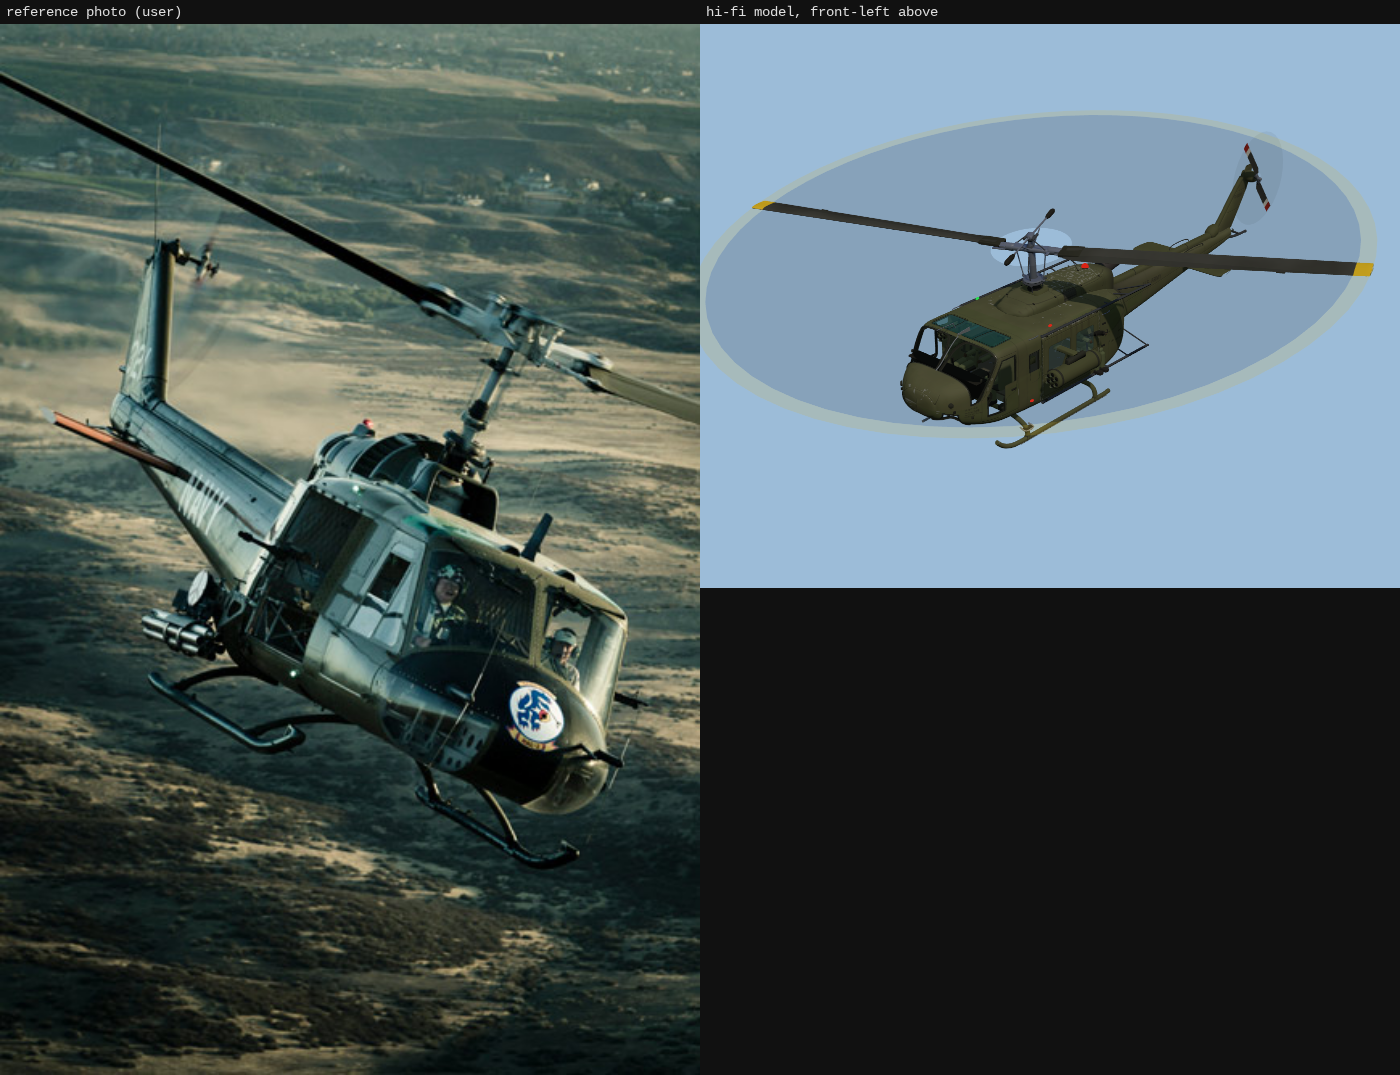
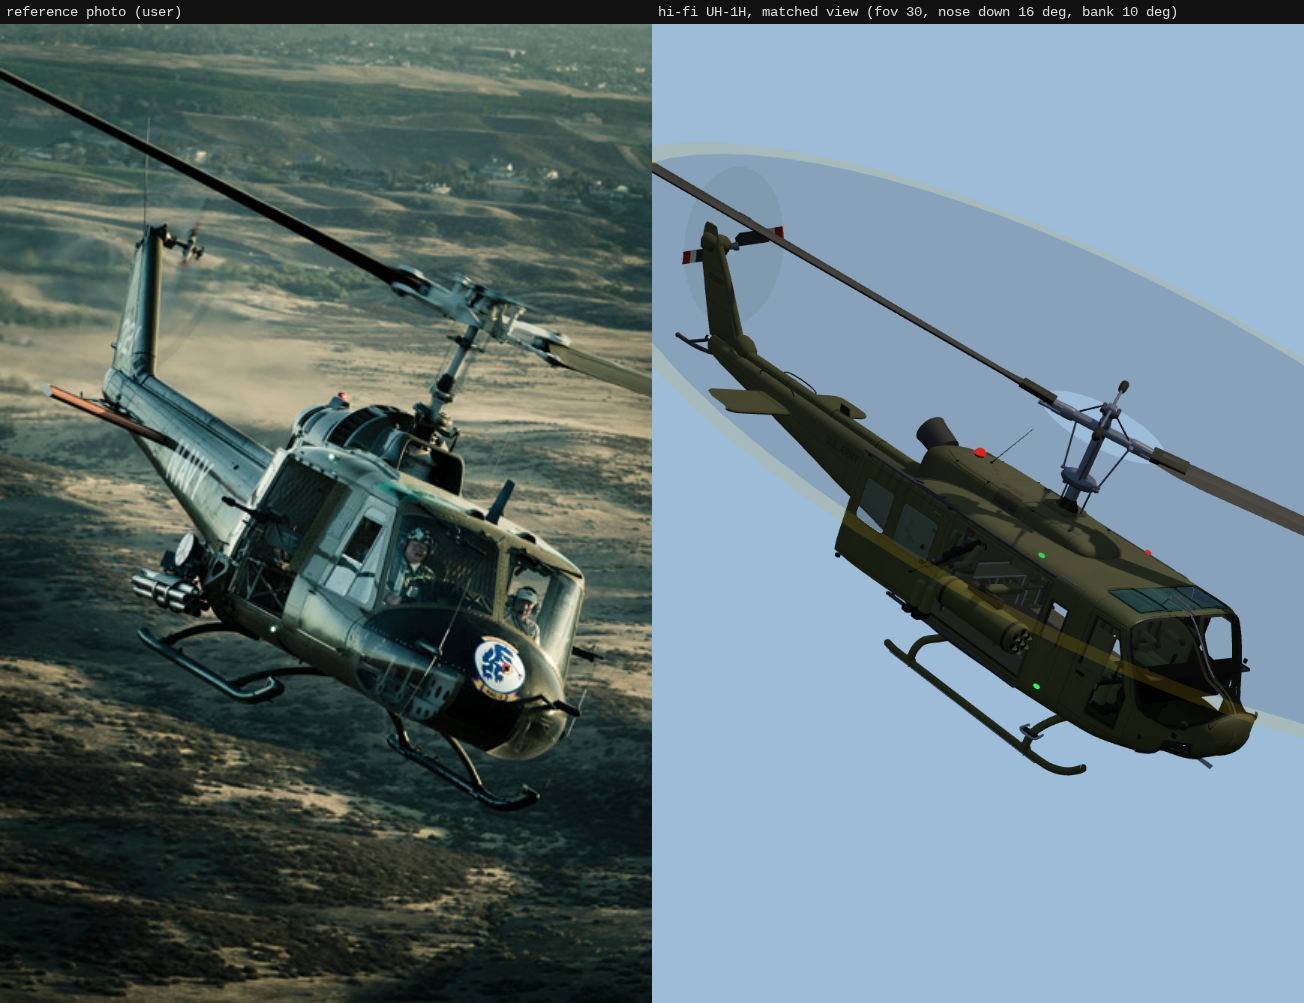
look-huey: photo-matched view (front-right above, fov 30, nose down, banked) for proportions.png; windscreen lower edge per the TM front view; blunter nose sections; hub at the 13 ft 7.4 in label height; top-view overlay orientation

diff --git a/game/js/hueyhifi.js b/game/js/hueyhifi.js
@@ -30,7 +30,7 @@ export const HUEY_LOD = Object.freeze({ nm: [55, 75], mf: [200, 260] });
 // aft of the nose; front view by the 8 ft 6.6 in skid track; top view by the hub-to-tail distance. Check with
 // dev/huey.html?ref=side|front|top. Model z = station aft of the CG, nose tip at z -3.69, tail at z 8.93.
 const GEO = Object.freeze({
-  HUB: [0, 1.80, -0.12],           // blade-grip centre 3.64 m above the ground (top of the mast nut 3.97 m)
+  HUB: [0, 2.00, -0.12],           // 13 ft 7.40 in to the top of the hub (front view label; the drawn hub sits 0.2 m lower, the photo agrees with the label)
   TR_HUB: [-0.39, 1.39, 8.66],     // 10 ft 2.5 in above the ground (drawing centre 3.23 m)
   GUN: [-1.1, -0.18, 0.62],        // M60D pintle on the aft post of the cargo doorway
   SKID: { x: 1.30, z0: -2.62, z1: 1.08, cross: [-1.71, 0.60] },   // 8 ft 6.6 in track, cross tubes from the side view
@@ -41,11 +41,11 @@ const GEO = Object.freeze({
 // boom a deep tapered beam: top nearly level, bottom rising from -1.0 at the aft bulkhead (z 2.62) to -0.2 at z 7.8
 const FUS = [
   [-3.69, -0.60, -0.64, 0.0, -0.62, 2.2, 2.2],
-  [-3.665, -0.42, -0.80, 0.30, -0.62, 2.3, 2.3],
-  [-3.60, -0.31, -0.89, 0.50, -0.62, 2.5, 2.5],
-  [-3.47, -0.20, -0.99, 0.69, -0.62, 2.8, 2.9],
-  [-3.27, -0.12, -1.08, 0.86, -0.60, 3.2, 3.6],
-  [-3.06, -0.06, -1.14, 0.98, -0.56, 3.6, 4.4],
+  [-3.665, -0.42, -0.80, 0.30, -0.62, 2.6, 2.6],   // blunt, bulbous nose: rounded-rectangle sections right to the front (photo)
+  [-3.60, -0.31, -0.89, 0.50, -0.62, 3.0, 3.0],
+  [-3.47, -0.20, -0.99, 0.69, -0.62, 3.5, 3.6],
+  [-3.27, -0.12, -1.08, 0.86, -0.60, 4.0, 4.4],
+  [-3.06, -0.06, -1.14, 0.98, -0.56, 4.4, 5.0],
   [-2.85, 0.13, -1.18, 1.08, -0.50, 4.4, 5.5],
   [-2.65, 0.32, -1.21, 1.15, -0.44, 5.5, 6.5],
   [-2.45, 0.46, -1.235, 1.19, -0.38, 7.0, 7.5],
@@ -106,8 +106,8 @@ export const HUEY_SKIN = {
 // signed distance (m, negative inside) of the cut-outs at a surface point (x, y, z), c = cos(phi) (up-ness)
 function holeSDF(z, x, y, c, door = true) {
   const ax = Math.abs(x); let d = 1;
-  if (z < -2.3 && y > -0.56 && c > -0.35) {   // windscreen: ahead of the A-pillar, either side of the centre post, below the roof bow
-    const lo = -0.20 - 0.32 * (ax / 0.85) ** 2;
+  if (z < -2.3 && y > -0.62 && c > -0.4) {   // windscreen: ahead of the A-pillar, either side of the centre post, below the roof bow
+    const lo = -0.30 - 0.30 * (ax / 0.85) ** 2;   // TM front view: -0.3 at the centre post, -0.6 at the sides
     d = Math.max(lo - y, (z - pillarZ(Math.min(y, 0.33))) * 0.6 + 0.03, 0.035 - ax, z - (-2.47 + 0.04 * ax));
   }
   if (c > 0.3) d = Math.min(d, sdBox(ax - 0.6, z + 2.06, 0.33, 0.30, 0.07));                        // greenhouse (roof windows)
@@ -665,13 +665,13 @@ export function buildHueyHiFi(HUEY, { xr = false } = {}) {
   const mast = group(g, 'mast', ...GEO.HUB); mast.rotation.x = -HUEY.MAST_TILT;
   { // mast tube with the "Jesus nut", the boot where it leaves the cowling, control tubes up to the swashplate
     const mb = new Map(), mp = (geo, m) => (mb.get(m) || mb.set(m, []).get(m)).push(geo);
-    mp(lathe([[0.078, -1.06], [0.078, 0.12], [0.07, 0.14], [0.07, 0.2]], 20), N.metal);
+    mp(lathe([[0.078, -1.26], [0.078, 0.12], [0.07, 0.14], [0.07, 0.2]], 20), N.metal);
     mp(lathe([[0, 0.2], [0.085, 0.2], [0.09, 0.22], [0.09, 0.27], [0.06, 0.3], [0, 0.31]], 20), N.steel);   // mast nut
-    mp(lathe([[0.2, -1.05], [0.17, -0.99], [0.13, -0.93], [0.1, -0.89], [0.085, -0.85]], 20), N.rubber);     // mast boot
-    mp(rbox(0.5, 0.2, 0.46, 0.07).translate(0, -1.08, 0.02), N.od2);                                      // transmission top / pylon support fairing
-    for (const a of [0, 2.1, 4.2]) { const x = Math.cos(a) * 0.2, z = Math.sin(a) * 0.2; mp(rod([x, -1.0, z], [x * 1.05, -0.8, z * 1.05], 0.012, 8), N.steel); }   // control tubes
+    mp(lathe([[0.2, -1.25], [0.17, -1.19], [0.13, -1.13], [0.1, -1.09], [0.085, -1.05]], 20), N.rubber);     // mast boot
+    mp(rbox(0.5, 0.2, 0.46, 0.07).translate(0, -1.28, 0.02), N.od2);                                      // transmission top / pylon support fairing
+    for (const a of [0, 2.1, 4.2]) { const x = Math.cos(a) * 0.2, z = Math.sin(a) * 0.2; mp(rod([x, -1.2, z], [x * 1.05, -0.8, z * 1.05], 0.012, 8), N.steel); }   // control tubes
     for (const [m, gs] of mb) mesh(merge(gs), m, mast, 'mastTube');
-    mesh(new THREE.CylinderGeometry(0.075, 0.075, 1.3, 8).translate(0, -0.4, 0), MF.metal, mast, 'mastMid', 'mf');
+    mesh(new THREE.CylinderGeometry(0.075, 0.075, 1.5, 8).translate(0, -0.5, 0), MF.metal, mast, 'mastMid', 'mf');
   }
   const swash = group(mast, 'swashplate', 0, -0.78, 0), swSpin = group(swash, 'swashSpin');
   { const sb = new Map(), sp = (geo, m) => (sb.get(m) || sb.set(m, []).get(m)).push(geo);

diff --git a/game/dev/huey-preview.js b/game/dev/huey-preview.js
@@ -52,7 +52,7 @@ addEventListener('wheel', e => cam.dist *= Math.exp(e.deltaY * 0.001));
 const REF = Q.get('ref'), REFV = {
   side: { s: 100.68, map: (px, py) => [(px - 460) / 100.68 - 0.12 - 3.573, (1503 - py) / 100.68 + HUEY.GROUND], view: [1, 0, 0], up: [0, 1, 0] },
   front: { s: 100.3, map: (px, py) => [-(px - 825) / 100.3, (909.5 - py) / 100.3 + HUEY.GROUND], view: [0, 0, 1], up: [0, 1, 0] },
-  top: { s: 99.6, map: (px, py) => [(px - 829) / 99.6 - 0.12, (py - 214.5) / 99.6], view: [0, -1, 0], up: [1, 0, 0] },
+  top: { s: 99.6, map: (px, py) => [(px - 829) / 99.6 - 0.12, -(py - 214.5) / 99.6], view: [0, -1, 0], up: [1, 0, 0] },
 }[REF];
 let ortho = null;
 if (REFV) {
